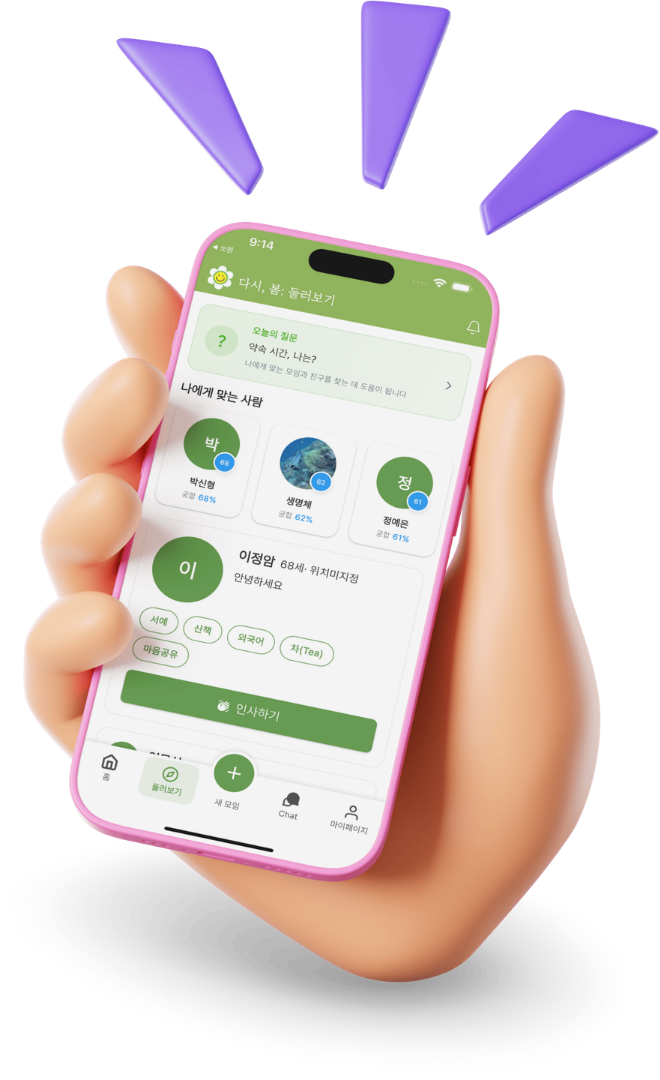
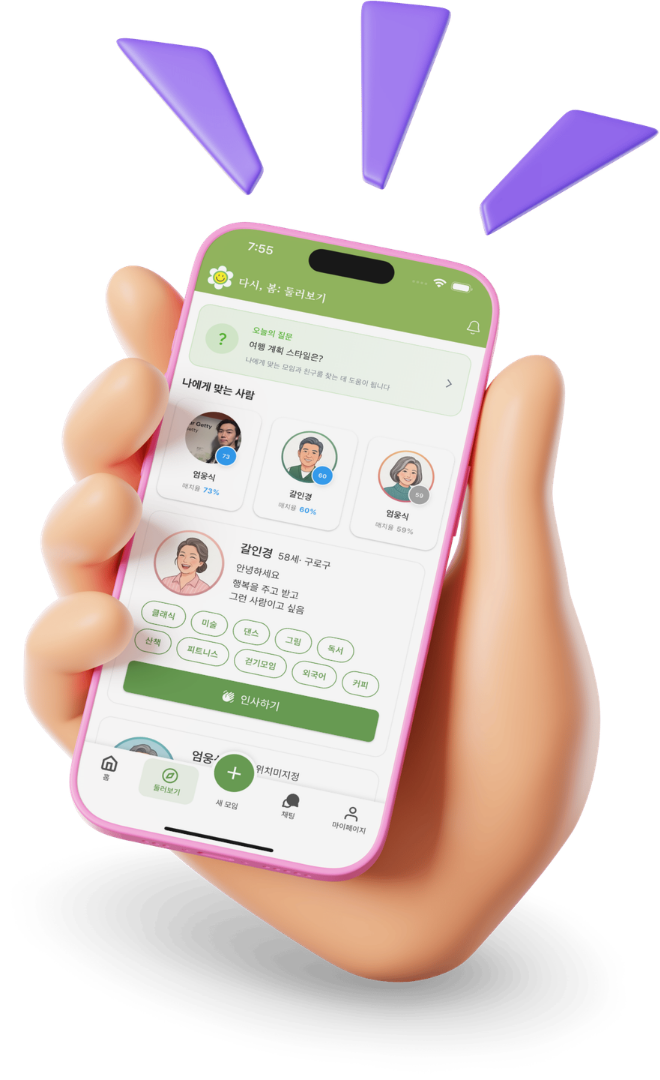
image email update

diff --git a/src/app/download/page.tsx b/src/app/download/page.tsx
@@ -1,0 +1,87 @@
+'use client';
+
+import { useEffect, useState } from 'react';
+import Image from 'next/image';
+
+const APP_STORE_URL = 'https://apps.apple.com/app/id6751523550';
+const PLAY_STORE_URL =
+  'https://play.google.com/store/apps/details?id=com.bloomagain.bloomagain';
+
+function detectPlatform(): 'ios' | 'android' | 'other' {
+  if (typeof navigator === 'undefined') return 'other';
+  const ua = navigator.userAgent;
+  if (/iPad|iPhone|iPod/.test(ua)) return 'ios';
+  if (/Android/.test(ua)) return 'android';
+  return 'other';
+}
+
+export default function DownloadPage() {
+  const [redirected, setRedirected] = useState(false);
+
+  useEffect(() => {
+    const platform = detectPlatform();
+    if (platform === 'ios') {
+      window.location.href = APP_STORE_URL;
+      setRedirected(true);
+    } else if (platform === 'android') {
+      window.location.href = PLAY_STORE_URL;
+      setRedirected(true);
+    }
+  }, []);
+
+  return (
+    <main className="min-h-screen flex flex-col items-center justify-center bg-[#f5f9f0] px-6 text-center">
+      <div className="mb-6">
+        <Image
+          src="/logo.png"
+          alt="다시, 봄 로고"
+          width={96}
+          height={96}
+          className="mx-auto rounded-2xl shadow-md"
+          onError={(e) => {
+            (e.target as HTMLImageElement).style.display = 'none';
+          }}
+        />
+      </div>
+
+      <h1 className="text-2xl font-bold text-gray-800 mb-2">다시, 봄</h1>
+      <p className="text-gray-500 mb-8 text-sm">
+        {redirected
+          ? '스토어로 이동 중입니다...'
+          : '아래 버튼을 눌러 앱을 다운로드하세요.'}
+      </p>
+
+      <div className="flex flex-col gap-4 w-full max-w-xs">
+        <a
+          href={APP_STORE_URL}
+          className="flex items-center justify-center gap-3 bg-black text-white rounded-2xl px-6 py-4 font-medium hover:bg-gray-900 transition-colors"
+        >
+          <svg viewBox="0 0 24 24" className="w-6 h-6 fill-white" xmlns="http://www.w3.org/2000/svg">
+            <path d="M18.71 19.5c-.83 1.24-1.71 2.45-3.05 2.47-1.34.03-1.77-.79-3.29-.79-1.53 0-2 .77-3.27.82-1.31.05-2.3-1.32-3.14-2.53C4.25 17 2.94 12.45 4.7 9.39c.87-1.52 2.43-2.48 4.12-2.51 1.28-.02 2.5.87 3.29.87.78 0 2.26-1.07 3.8-.91.65.03 2.47.26 3.64 1.98-.09.06-2.17 1.28-2.15 3.81.03 3.02 2.65 4.03 2.68 4.04-.03.07-.42 1.44-1.38 2.83M13 3.5c.73-.83 1.94-1.46 2.94-1.5.13 1.17-.34 2.35-1.04 3.19-.69.85-1.83 1.51-2.95 1.42-.15-1.15.41-2.35 1.05-3.11z" />
+          </svg>
+          <div className="text-left">
+            <div className="text-xs opacity-80">Download on the</div>
+            <div className="text-base font-semibold leading-tight">App Store</div>
+          </div>
+        </a>
+
+        <a
+          href={PLAY_STORE_URL}
+          className="flex items-center justify-center gap-3 bg-[#2d9e44] text-white rounded-2xl px-6 py-4 font-medium hover:bg-[#248a3a] transition-colors"
+        >
+          <svg viewBox="0 0 24 24" className="w-6 h-6 fill-white" xmlns="http://www.w3.org/2000/svg">
+            <path d="M3.18 23.76c.3.17.64.22.99.14l12.45-7.2-2.78-2.78-10.66 9.84zm-1.1-20.2A1.99 1.99 0 0 0 2 4.56v14.88c0 .56.22 1.06.58 1.42l.08.07 8.34-8.34v-.2L2.08 3.56zm17.67 7.43-2.67-1.54-3.12 3.12 3.12 3.12 2.69-1.55c.77-.44.77-1.71-.02-2.15zM4.17.24 16.62 7.44l-2.78 2.78L3.18.38A1.31 1.31 0 0 1 4.17.24z" />
+          </svg>
+          <div className="text-left">
+            <div className="text-xs opacity-80">Get it on</div>
+            <div className="text-base font-semibold leading-tight">Google Play</div>
+          </div>
+        </a>
+      </div>
+
+      <p className="mt-10 text-xs text-gray-400">
+        50세 이상을 위한 따뜻한 동반자 앱
+      </p>
+    </main>
+  );
+}

diff --git a/src/app/delete-account/page.tsx b/src/app/delete-account/page.tsx
@@ -79,7 +79,9 @@ export default function DeleteAccountPage() {
                   </ul>
                   <p className="text-green-800 mt-3">
                     <strong>이메일:</strong> 
-                    <a href="mailto:hangyeolryu@gmail.com" className="underline">hangyeolryu@gmail.com</a>
+                    <a href="mailto:ceo@effeffcorp.com
+" className="underline">ceo@effeffcorp.com
+</a>
                   </p>
                 </div>
               </div>
@@ -177,11 +179,15 @@ export default function DeleteAccountPage() {
                 <div className="space-y-2">
                   <p className="text-blue-800">
                     <strong>계정 삭제 전용 이메일:</strong> 
-                    <a href="mailto:hangyeolryu@gmail.com" className="underline">hangyeolryu@gmail.com</a>
+                    <a href="mailto:ceo@effeffcorp.com
+" className="underline">ceo@effeffcorp.com
+</a>
                   </p>
                   <p className="text-blue-800">
                     <strong>일반 고객지원:</strong> 
-                    <a href="mailto:hangyeolryu@gmail.com" className="underline">hangyeolryu@gmail.com</a>
+                    <a href="mailto:ceo@effeffcorp.com
+" className="underline">ceo@effeffcorp.com
+</a>
                   </p>
                   <p className="text-blue-800">
                     <strong>운영시간:</strong> 평일 09:00 - 18:00 (한국시간)
@@ -208,7 +214,8 @@ export default function DeleteAccountPage() {
                 </p>
                 <div className="flex flex-col sm:flex-row gap-4 justify-center">
                   <a
-                    href="mailto:hangyeolryu@gmail.com"
+                    href="mailto:ceo@effeffcorp.com
+"
                     className="inline-flex items-center justify-center px-6 py-3 border border-transparent text-base font-medium rounded-md text-white bg-red-600 hover:bg-red-700"
                   >
                     계정 삭제 요청하기

diff --git a/src/app/support/page.tsx b/src/app/support/page.tsx
@@ -126,10 +126,10 @@ export default function SupportPage() {
               <h3 className="font-semibold text-[#534741]">이메일 문의</h3>
               <p className="text-sm text-slate-500">영업일 기준 1–3일 내 답변 드립니다.</p>
               <a
-                href="mailto:hangyeolryu@gmail.com"
+                href="mailto:ceo@effeffcorp.com"
                 className="mt-auto inline-flex items-center gap-1 text-sm font-medium text-[#8CB350] hover:underline"
               >
-                hangyeolryu@gmail.com
+                ceo@effeffcorp.com
                 <ChevronRight className="h-4 w-4" />
               </a>
             </div>
@@ -141,7 +141,7 @@ export default function SupportPage() {
               <h3 className="font-semibold text-[#534741]">신고 및 안전</h3>
               <p className="text-sm text-slate-500">스캠·불법 콘텐츠는 즉시 신고해 주세요. 24시간 처리합니다.</p>
               <a
-                href="mailto:hangyeolryu@gmail.com?subject=신고"
+                href="mailto:ceo@effeffcorp.com?subject=신고"
                 className="mt-auto inline-flex items-center gap-1 text-sm font-medium text-[#8CB350] hover:underline"
               >
                 신고 이메일 보내기
@@ -208,7 +208,7 @@ export default function SupportPage() {
             고객 지원팀이 도와드리겠습니다. 언제든지 이메일로 문의해 주세요.
           </p>
           <a
-            href="mailto:hangyeolryu@gmail.com"
+            href="mailto:ceo@effeffcorp.com"
             className="inline-flex items-center gap-2 rounded-full bg-[#8CB350] px-8 py-4 text-base font-semibold text-white shadow-lg transition hover:bg-[#7BA340]"
           >
             <Mail className="h-5 w-5" />

diff --git a/src/app/terms/page.tsx b/src/app/terms/page.tsx
@@ -266,7 +266,7 @@ export default function TermsPage() {
                   <h3 className="text-lg font-semibold text-gray-800 mb-3">문의처</h3>
                   <div className="bg-[#BFE38A]/20 border-l-4 border-[#8CB350] p-6 rounded-lg">
                     <ul className="space-y-2">
-                      <li><strong>이메일</strong>: <a href="mailto:hangyeolryu@gmail.com" className="text-[#8CB350] hover:underline">hangyeolryu@gmail.com</a></li>
+                      <li><strong>이메일</strong>: <a href="mailto:ceo@effeffcorp.com" className="text-[#8CB350] hover:underline">ceo@effeffcorp.com</a></li>
                       <li><strong>운영시간</strong>: 평일 09:00 - 18:00</li>
                     </ul>
                   </div>

diff --git a/src/app/privacy/page.tsx b/src/app/privacy/page.tsx
@@ -224,7 +224,7 @@ export default function PrivacyPage() {
                 <ul className="space-y-2 text-gray-700">
                   <li><strong>성명</strong>: 유한결</li>
                   <li><strong>직책</strong>: 개인정보 보호책임자</li>
-                  <li><strong>이메일</strong>: <a href="mailto:hangyeolryu@gmail.com" className="text-[#8CB350] hover:underline">hangyeolryu@gmail.com</a></li>
+                  <li><strong>이메일</strong>: <a href="mailto:ceo@effeffcorp.com" className="text-[#8CB350] hover:underline">ceo@effeffcorp.com</a></li>
                 </ul>
               </div>
             </section>

diff --git a/src/app/page.tsx b/src/app/page.tsx
@@ -472,10 +472,10 @@ export default function Home() {
               <div className="flex items-center justify-center gap-3 text-slate-600">
                 <Mail className="h-5 w-5 text-[#8CB350]" />
                 <a
-                  href="mailto:hangyeolryu@gmail.com"
+                  href="mailto:ceo@effeffcorp.com"
                   className="text-base hover:text-[#8CB350] transition-colors"
                 >
-                  hangyeolryu@gmail.com
+                  ceo@effeffcorp.com
                 </a>
               </div>
               <p className="text-sm text-slate-500">

diff --git a/src/app/security-processing/page.tsx b/src/app/security-processing/page.tsx
@@ -86,7 +86,7 @@ export default function SecurityProcessingPage() {
 
             <div className="border-t-2 border-[#8CB350] pt-8 mt-12">
               <p className="text-gray-600 text-sm">
-                문의: <a href="mailto:hangyeolryu@gmail.com" className="text-[#8CB350] hover:underline">hangyeolryu@gmail.com</a>
+                문의: <a href="mailto:ceo@effeffcorp.com" className="text-[#8CB350] hover:underline">ceo@effeffcorp.com</a>
               </p>
               <p className="text-gray-500 text-sm mt-2">최종 업데이트: 2026년 1월 1일</p>
             </div>
